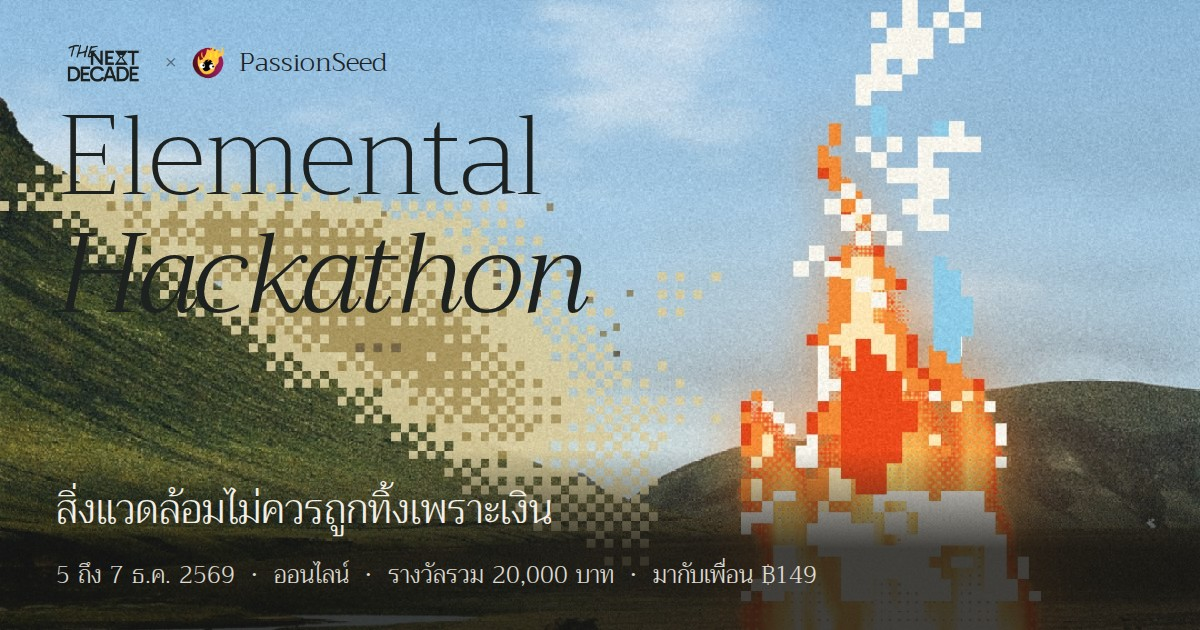
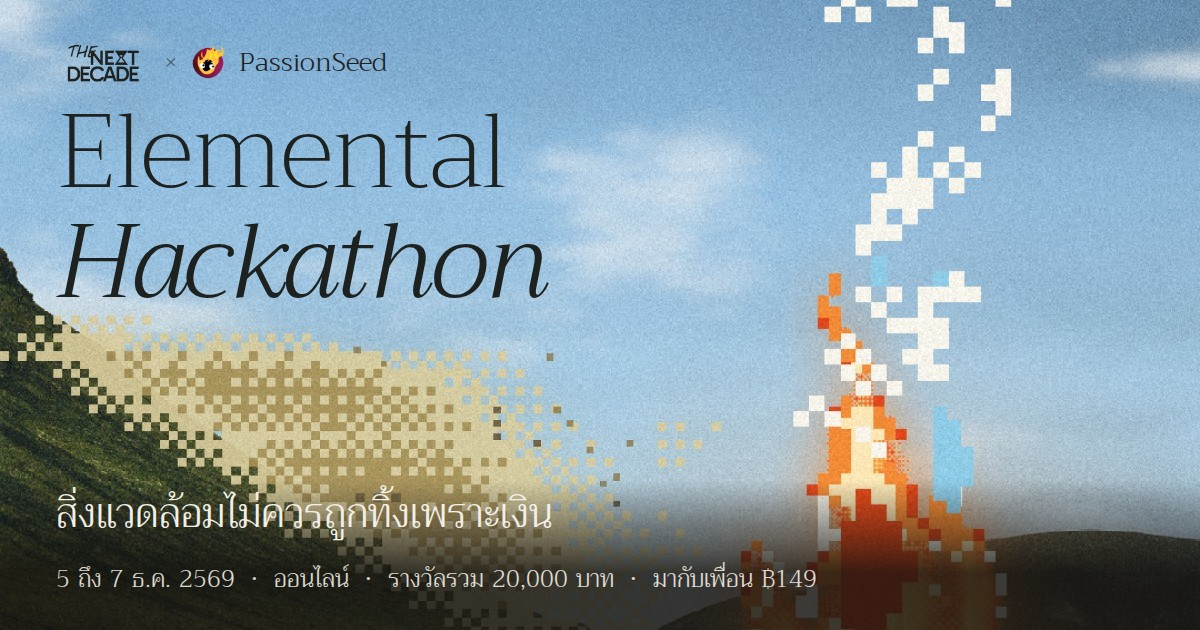
fix(seo): <html lang> is Thai on Thai pages, and the share image's title reads clearly
- <html lang> was "en" on every page, though most pages are Thai. Measured
  on the live site (2026-11-22): the home page, hackathon, SHIFT, Radar and
  port pages are 80-98% Thai; /about, /contact, /link, /expert-interview and
  /hackathon/gallery are English. lib/i18n/page-language.ts holds the rule:
  Thai by default, those pages English, and pages on the Thai/English
  switch start English and then follow the visitor's choice.
- The proxy passes the path (x-page-path) so the root layout sets lang on
  the first load; the root layout already reads cookies on every request,
  so this adds no dynamic rendering. LanguageProvider keeps lang right on
  in-app navigation, which doesn't re-render the root layout.
- Share image: the scene sits lower so "Hackathon" is on clear sky instead
  of the pixel smoke, the title is a little smaller, and the details strip
  is shorter so more of the fire shows.

diff --git a/app/layout.tsx b/app/layout.tsx
@@ -1,5 +1,6 @@
 import type React from "react";
 import type { Metadata } from "next";
+import { headers } from "next/headers";
 import { Analytics } from "@vercel/analytics/next";
 import {
   Space_Mono,
@@ -27,6 +28,7 @@ import ErrorBoundary from "@/components/error-boundary";
 import { DevHealthCheck } from "@/components/dev-health-check";
 import { TOSAcceptanceModal } from "@/components/TOSAcceptanceModal";
 import { LanguageProvider } from "@/lib/i18n/language-context";
+import { pageLanguage } from "@/lib/i18n/page-language";
 import { CANONICAL_ORIGIN } from "@/lib/seo/canonical-origin";
 import { DirectionFinderProvider } from "@/components/education/direction-finder/direction-finder-context";
 
@@ -211,6 +213,9 @@ export default async function RootLayout({
     // show their own error/login state.
   }
 
+  // Thai for most pages; see lib/i18n/page-language.ts. The proxy passes the path.
+  const { lang } = pageLanguage((await headers()).get("x-page-path"));
+
   const organizationSchema = {
     "@context": "https://schema.org",
     "@graph": [
@@ -245,7 +250,7 @@ export default async function RootLayout({
   };
 
   return (
-    <html lang="en" suppressHydrationWarning>
+    <html lang={lang} suppressHydrationWarning>
       <body
         className={`${libreFranklin.variable} ${spaceMono.variable} ${krub.variable} ${baiJamjuree.variable} ${mitr.variable} ${poppins.variable} ${reenieBeanie.variable} ${kodchasan.variable} ${notoSansThai.variable} ${notoSerifThai.variable} ${instrumentSerif.variable} ${athiti.variable} ${tiny5.variable}`}
       >

diff --git a/lib/i18n/page-language.ts b/lib/i18n/page-language.ts
@@ -1,0 +1,23 @@
+/**
+ * The language of a page, for <html lang>. Screen readers pick their voice
+ * from it, and search engines read it as a hint.
+ *
+ * Most pages are Thai. The English ones below were measured on the live
+ * site on 2026-11-22 (0 to 2% Thai text). A page added in English should be
+ * added here.
+ */
+const ENGLISH_PAGES = new Set(["/about", "/contact", "/link", "/expert-interview", "/hackathon/gallery"]);
+
+/**
+ * Pages that follow the site's Thai/English switch (useLanguage). They
+ * render English first, then the visitor's saved choice.
+ */
+const SWITCH_PAGES = ["/about", "/expert-interview", "/settings", "/direction-finder", "/me", "/forgot-password", "/reset-password"];
+
+export type PageLanguage = { lang: "th" | "en"; followsSwitch: boolean };
+
+export function pageLanguage(path: string | null | undefined): PageLanguage {
+  const p = (path || "/").replace(/\/+$/, "") || "/";
+  const followsSwitch = SWITCH_PAGES.some((s) => p === s || p.startsWith(`${s}/`));
+  return { lang: followsSwitch || ENGLISH_PAGES.has(p) ? "en" : "th", followsSwitch };
+}

diff --git a/lib/i18n/__tests__/page-language.test.ts b/lib/i18n/__tests__/page-language.test.ts
@@ -1,0 +1,20 @@
+import { pageLanguage } from "@/lib/i18n/page-language";
+
+test("most pages are Thai", () => {
+  expect(pageLanguage("/")).toEqual({ lang: "th", followsSwitch: false });
+  expect(pageLanguage("/hackathon")).toEqual({ lang: "th", followsSwitch: false });
+  expect(pageLanguage("/hackathon/join")).toEqual({ lang: "th", followsSwitch: false });
+  expect(pageLanguage(null)).toEqual({ lang: "th", followsSwitch: false });
+});
+
+test("measured English pages are English, exact path only", () => {
+  expect(pageLanguage("/contact").lang).toBe("en");
+  expect(pageLanguage("/hackathon/gallery/").lang).toBe("en");
+  expect(pageLanguage("/hackathon/gallery/submit").lang).toBe("th");
+});
+
+test("pages on the language switch start English and follow the switch", () => {
+  expect(pageLanguage("/about")).toEqual({ lang: "en", followsSwitch: true });
+  expect(pageLanguage("/me/journey")).toEqual({ lang: "en", followsSwitch: true });
+  expect(pageLanguage("/metrics").followsSwitch).toBe(false);
+});

diff --git a/lib/i18n/language-context.tsx b/lib/i18n/language-context.tsx
@@ -1,7 +1,9 @@
 "use client";
 
 import React, { createContext, useContext, useState, useEffect } from "react";
+import { usePathname } from "next/navigation";
 import { Language } from "./direction-finder";
+import { pageLanguage } from "./page-language";
 
 interface LanguageContextType {
   language: Language;
@@ -73,6 +75,15 @@ export function LanguageProvider({ children }: { children: React.ReactNode }) {
 
     initializeLanguage();
   }, []);
+
+  // Keep <html lang> right as the visitor moves between pages (the root
+  // layout only sets it on the first load). Pages that follow the switch
+  // take the visitor's choice.
+  const pathname = usePathname();
+  useEffect(() => {
+    const page = pageLanguage(pathname);
+    document.documentElement.lang = page.followsSwitch ? language : page.lang;
+  }, [pathname, language]);
 
   // Save language to localStorage AND Supabase on change
   const handleSetLanguage = async (lang: Language) => {

diff --git a/proxy.ts b/proxy.ts
@@ -94,6 +94,9 @@ export default async function proxy(request: NextRequest) {
     return NextResponse.next({ request });
   }
 
+  // The root layout reads this to set <html lang> (lib/i18n/page-language.ts).
+  request.headers.set("x-page-path", routePath);
+
   // Handle Supabase session updates for page navigations only
   return await updateSession(request);
 }
